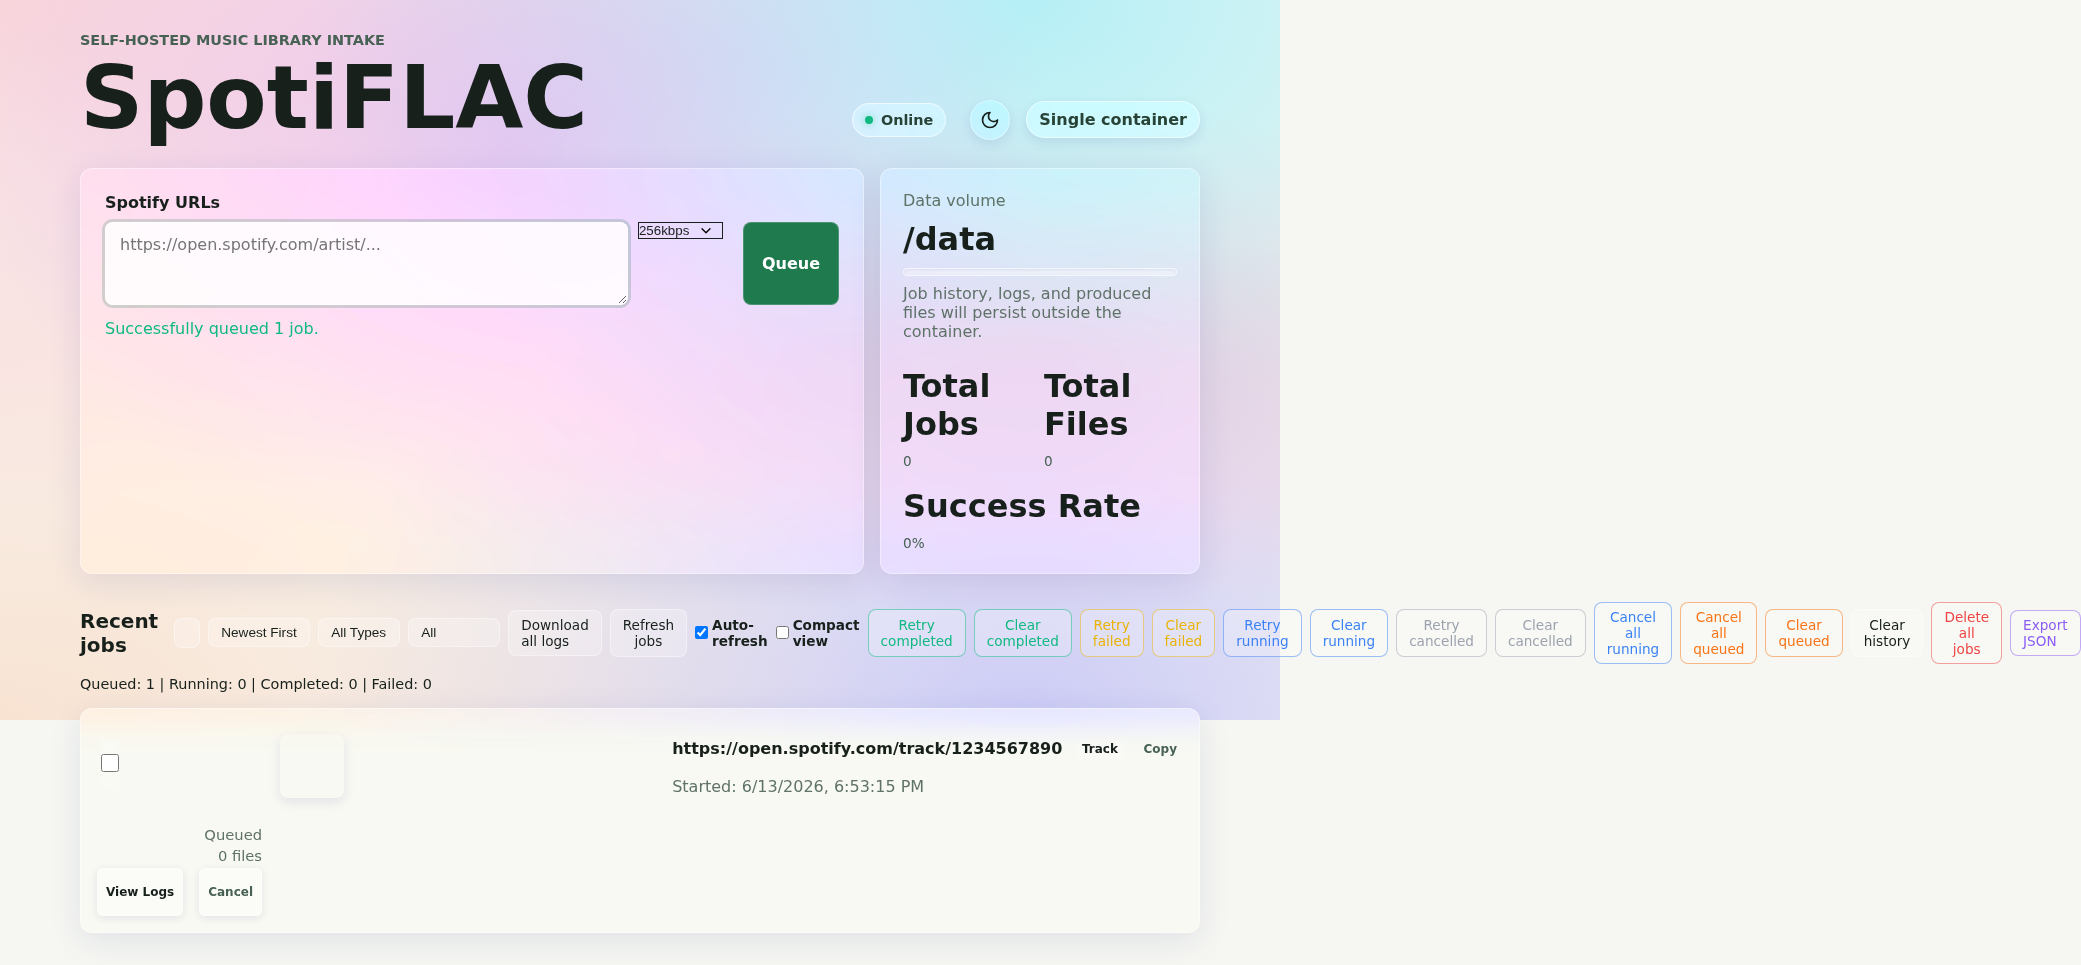
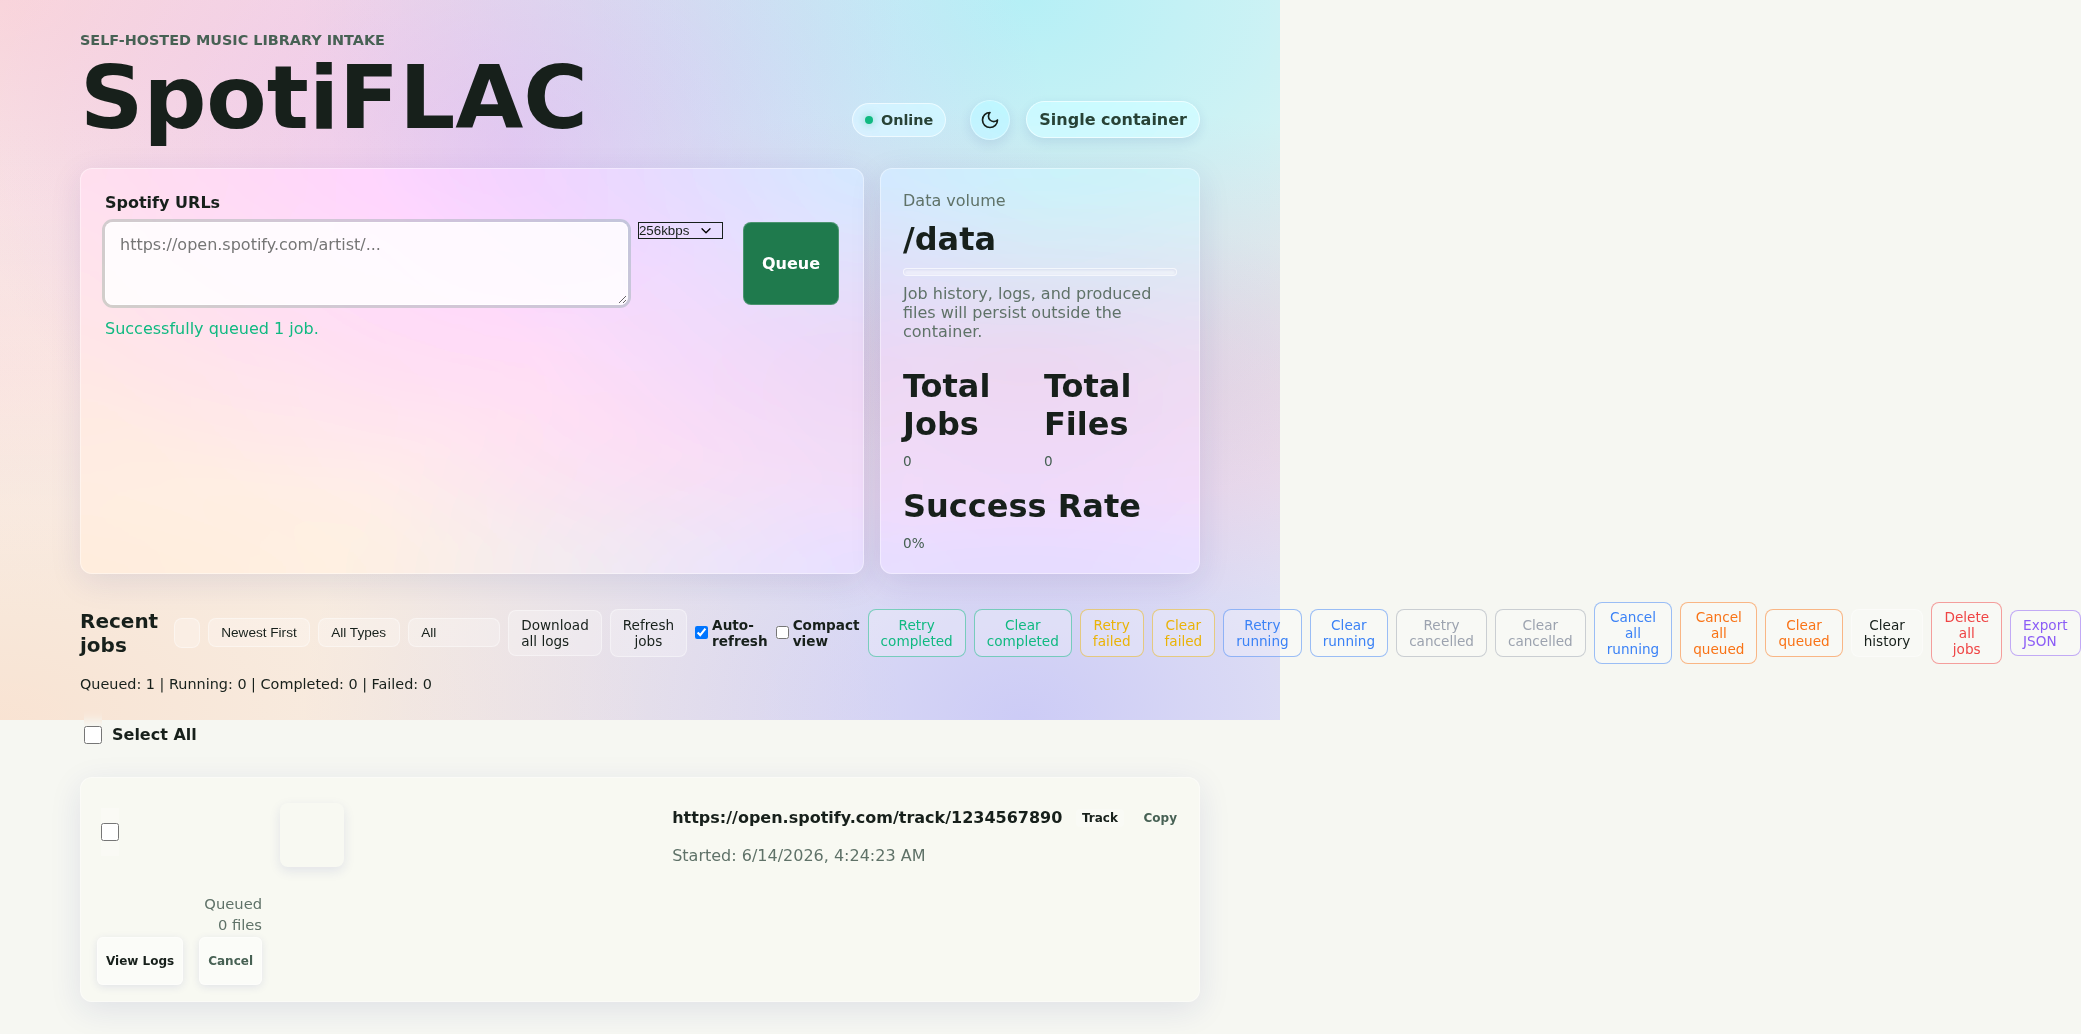
feat: add select all checkbox for jobs
- Added a "Select All" checkbox above the job list to toggle the selection of all visible jobs.
- The checkbox updates correctly when jobs are filtered or when individual jobs are manually checked/unchecked.
- Visibility of the "Delete selected" button correctly responds to the selected state of the jobs.
- Added a Playwright test to verify this functionality.
- Closed corresponding backlog item.

diff --git a/website/src/app.js b/website/src/app.js
@@ -279,6 +279,11 @@ export function renderApp(root) {
           </div>
         </div>
         <div id="queue-status-summary" class="queue-status-summary"></div>
+        <div class="select-all-container" style="margin-bottom: 15px; display: none;" id="select-all-container">
+          <label style="display: flex; align-items: center; cursor: pointer; color: var(--text-color);">
+            <input type="checkbox" id="select-all-jobs" style="margin-right: 10px; width: 18px; height: 18px; accent-color: var(--primary-color);"> Select All
+          </label>
+        </div>
         <div class="job-list" id="job-list">
           <!-- Jobs will be loaded here -->
         </div>
@@ -479,6 +484,15 @@ export function renderApp(root) {
         );
       }
 
+      const selectAllContainer = root.querySelector("#select-all-container");
+      if (selectAllContainer) {
+        if (filteredJobs.length > 0) {
+          selectAllContainer.style.display = "block";
+        } else {
+          selectAllContainer.style.display = "none";
+        }
+      }
+
       if (filteredJobs.length === 0) {
         if (jobs.length === 0) {
           jobList.innerHTML = `<p class="empty-state">No jobs yet.</p>`;
@@ -496,6 +510,22 @@ export function renderApp(root) {
             updateProgress(job.id);
           }
         }
+      }
+
+      const selectAllCheckbox = root.querySelector("#select-all-jobs");
+      if (selectAllCheckbox) {
+        selectAllCheckbox.checked = false;
+      }
+
+      if (typeof updateDeleteSelectedBtn === "function") {
+          updateDeleteSelectedBtn();
+      } else {
+          // manually reset delete button if update function is out of scope here
+          const deleteSelectedBtn = root.querySelector("#delete-selected-btn");
+          if (deleteSelectedBtn) {
+            deleteSelectedBtn.classList.add("hidden-btn");
+            deleteSelectedBtn.disabled = true;
+          }
       }
     } catch (err) {
       console.error(err);
@@ -1158,31 +1188,47 @@ export function renderApp(root) {
 
   const deleteSelectedBtn = root.querySelector("#delete-selected-btn");
 
+  function updateDeleteSelectedBtn() {
+    const allCheckboxes = Array.from(root.querySelectorAll(".job-select-checkbox"));
+    const anyChecked = allCheckboxes.some(cb => cb.checked);
+    const allChecked = allCheckboxes.length > 0 && allCheckboxes.every(cb => cb.checked);
+
+    if (anyChecked) {
+      deleteSelectedBtn.classList.remove("hidden-btn");
+      deleteSelectedBtn.disabled = false;
+    } else {
+      deleteSelectedBtn.classList.add("hidden-btn");
+      deleteSelectedBtn.disabled = true;
+    }
+
+    const selectAllCheckbox = root.querySelector("#select-all-jobs");
+    if (selectAllCheckbox) {
+      selectAllCheckbox.checked = allChecked;
+    }
+  }
+
+  const selectAllCheckbox = root.querySelector("#select-all-jobs");
+  if (selectAllCheckbox) {
+    selectAllCheckbox.addEventListener("change", (e) => {
+      const isChecked = e.target.checked;
+      const allCheckboxes = Array.from(root.querySelectorAll(".job-select-checkbox"));
+      allCheckboxes.forEach(cb => {
+        cb.checked = isChecked;
+      });
+      updateDeleteSelectedBtn();
+    });
+  }
+
   if (root.querySelector("#app")) {
     root.querySelector("#app").addEventListener("change", (e) => {
       if (e.target.classList.contains("job-select-checkbox")) {
-        const anyChecked = Array.from(root.querySelectorAll(".job-select-checkbox")).some(cb => cb.checked);
-        if (anyChecked) {
-          deleteSelectedBtn.classList.remove("hidden-btn");
-          deleteSelectedBtn.disabled = false;
-        } else {
-          deleteSelectedBtn.classList.add("hidden-btn");
-          deleteSelectedBtn.disabled = true;
-        }
+        updateDeleteSelectedBtn();
       }
     });
   } else {
-    // If we're already in the app element, listen on root
     root.addEventListener("change", (e) => {
       if (e.target.classList.contains("job-select-checkbox")) {
-        const anyChecked = Array.from(root.querySelectorAll(".job-select-checkbox")).some(cb => cb.checked);
-        if (anyChecked) {
-          deleteSelectedBtn.classList.remove("hidden-btn");
-          deleteSelectedBtn.disabled = false;
-        } else {
-          deleteSelectedBtn.classList.add("hidden-btn");
-          deleteSelectedBtn.disabled = true;
-        }
+        updateDeleteSelectedBtn();
       }
     });
   }

diff --git a/website/tests/select-all.spec.js b/website/tests/select-all.spec.js
@@ -1,0 +1,127 @@
+import { test, expect } from '@playwright/test';
+
+test.describe('Select All Jobs', () => {
+  const MOCK_JOBS = [
+    {
+      id: 'job-1',
+      url: 'https://open.spotify.com/track/1',
+      status: 'Completed',
+      created_at: new Date().toISOString(),
+      completed_at: new Date().toISOString(),
+    },
+    {
+      id: 'job-2',
+      url: 'https://open.spotify.com/track/2',
+      status: 'Failed',
+      created_at: new Date().toISOString(),
+      completed_at: new Date().toISOString(),
+    },
+    {
+      id: 'job-3',
+      url: 'https://open.spotify.com/track/3',
+      status: 'Queued',
+      created_at: new Date().toISOString(),
+    }
+  ];
+
+  test.beforeEach(async ({ page }) => {
+    // Mock the jobs API
+    await page.route('**/api/jobs', async (route) => {
+      if (route.request().method() === 'GET') {
+        await route.fulfill({ json: MOCK_JOBS });
+      } else if (route.request().method() === 'DELETE') {
+        await route.fulfill({ status: 200, json: { status: 'success' } });
+      } else {
+        await route.continue();
+      }
+    });
+
+    await page.route('**/api/jobs/delete-selected', async (route) => {
+        await route.fulfill({ status: 200, json: { status: 'success', deleted: 3 } });
+    });
+
+    // Mock stats
+    await page.route('**/api/stats', route => route.fulfill({
+      json: { total_jobs: 3, total_files: 0, success_rate: 33 }
+    }));
+    await page.route('**/api/system/storage', route => route.fulfill({
+      json: { total: 1000, used: 500, free: 500 }
+    }));
+    await page.route('**/api/system/info', route => route.fulfill({
+      json: { version: '1.0', platform: 'linux' }
+    }));
+
+    // Setup dialog handler
+    page.on('dialog', dialog => dialog.accept());
+  });
+
+  test('Select All checkbox selects and deselects all jobs', async ({ page }) => {
+    await page.goto('/');
+
+    // Wait for jobs to render
+    await expect(page.locator('.job-card')).toHaveCount(3);
+
+    const selectAllCheckbox = page.locator('#select-all-jobs');
+    const jobCheckboxes = page.locator('.job-select-checkbox');
+    const deleteSelectedBtn = page.locator('#delete-selected-btn');
+
+    // Initially select all is unchecked and delete btn is hidden
+    await expect(selectAllCheckbox).not.toBeChecked();
+    await expect(deleteSelectedBtn).toBeHidden();
+
+    // Check "Select All"
+    await selectAllCheckbox.check();
+
+    // All job checkboxes should be checked
+    for (let i = 0; i < 3; i++) {
+        await expect(jobCheckboxes.nth(i)).toBeChecked();
+    }
+
+    // Delete selected button should be visible and enabled
+    await expect(deleteSelectedBtn).toBeVisible();
+    await expect(deleteSelectedBtn).toBeEnabled();
+
+    // Uncheck "Select All"
+    await selectAllCheckbox.uncheck();
+
+    // All job checkboxes should be unchecked
+    for (let i = 0; i < 3; i++) {
+        await expect(jobCheckboxes.nth(i)).not.toBeChecked();
+    }
+
+    // Delete selected button should be hidden
+    await expect(deleteSelectedBtn).toBeHidden();
+  });
+
+  test('Manually checking all jobs checks Select All', async ({ page }) => {
+    await page.goto('/');
+
+    await expect(page.locator('.job-card')).toHaveCount(3);
+
+    const selectAllCheckbox = page.locator('#select-all-jobs');
+    const jobCheckboxes = page.locator('.job-select-checkbox');
+    const deleteSelectedBtn = page.locator('#delete-selected-btn');
+
+    // Check first job
+    await jobCheckboxes.nth(0).evaluate(node => node.click());
+    await expect(selectAllCheckbox).not.toBeChecked();
+    await expect(deleteSelectedBtn).toBeVisible();
+
+    // Check second job
+    await jobCheckboxes.nth(1).evaluate(node => node.click());
+    await expect(selectAllCheckbox).not.toBeChecked();
+
+    // Check third job
+    await jobCheckboxes.nth(2).evaluate(node => node.click());
+
+    // Now Select All should be checked
+    await expect(selectAllCheckbox).toBeChecked();
+
+    // Uncheck one job
+    await jobCheckboxes.nth(1).evaluate(node => node.click());
+
+    // Select All should be unchecked
+    await expect(selectAllCheckbox).not.toBeChecked();
+    await expect(deleteSelectedBtn).toBeVisible(); // Still visible since some are checked
+  });
+});

diff --git a/docs/backlog/closed/037_select_all_jobs_checkbox.md b/docs/backlog/closed/037_select_all_jobs_checkbox.md
@@ -1,0 +1,12 @@
+# Select All Jobs Checkbox
+
+## Background
+Users can currently select multiple jobs individually to delete them. However, when there are many jobs, checking them one by one is tedious. A "Select All" option would allow users to quickly select or deselect all visible jobs.
+
+## Requirements
+- Add a "Select All" checkbox above the jobs list.
+- Checking this box should select all currently visible job checkboxes.
+- Unchecking this box should deselect all currently visible job checkboxes.
+- Manually checking/unchecking individual jobs should update the "Select All" checkbox state (e.g., if all visible jobs are manually checked, the "Select All" checkbox should automatically check; if one is unchecked, it should uncheck).
+- Selecting/deselecting all should correctly toggle the visibility of the "Delete selected" button.
+- Add Playwright tests to verify the behavior.
